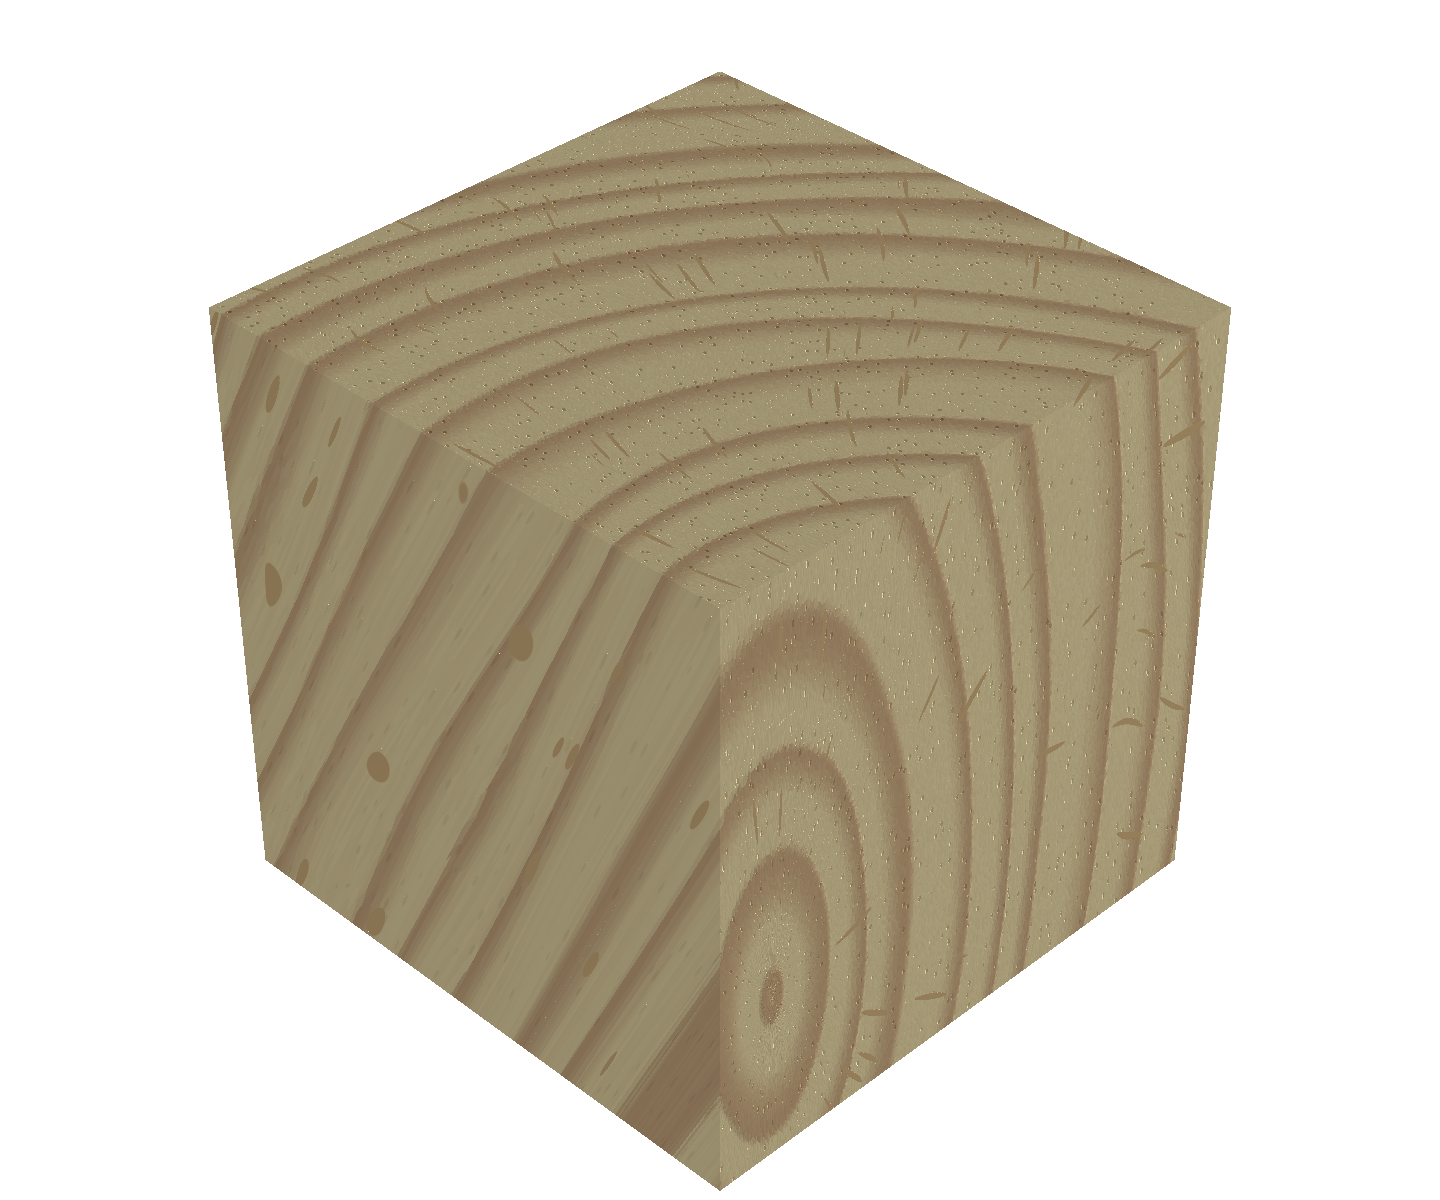
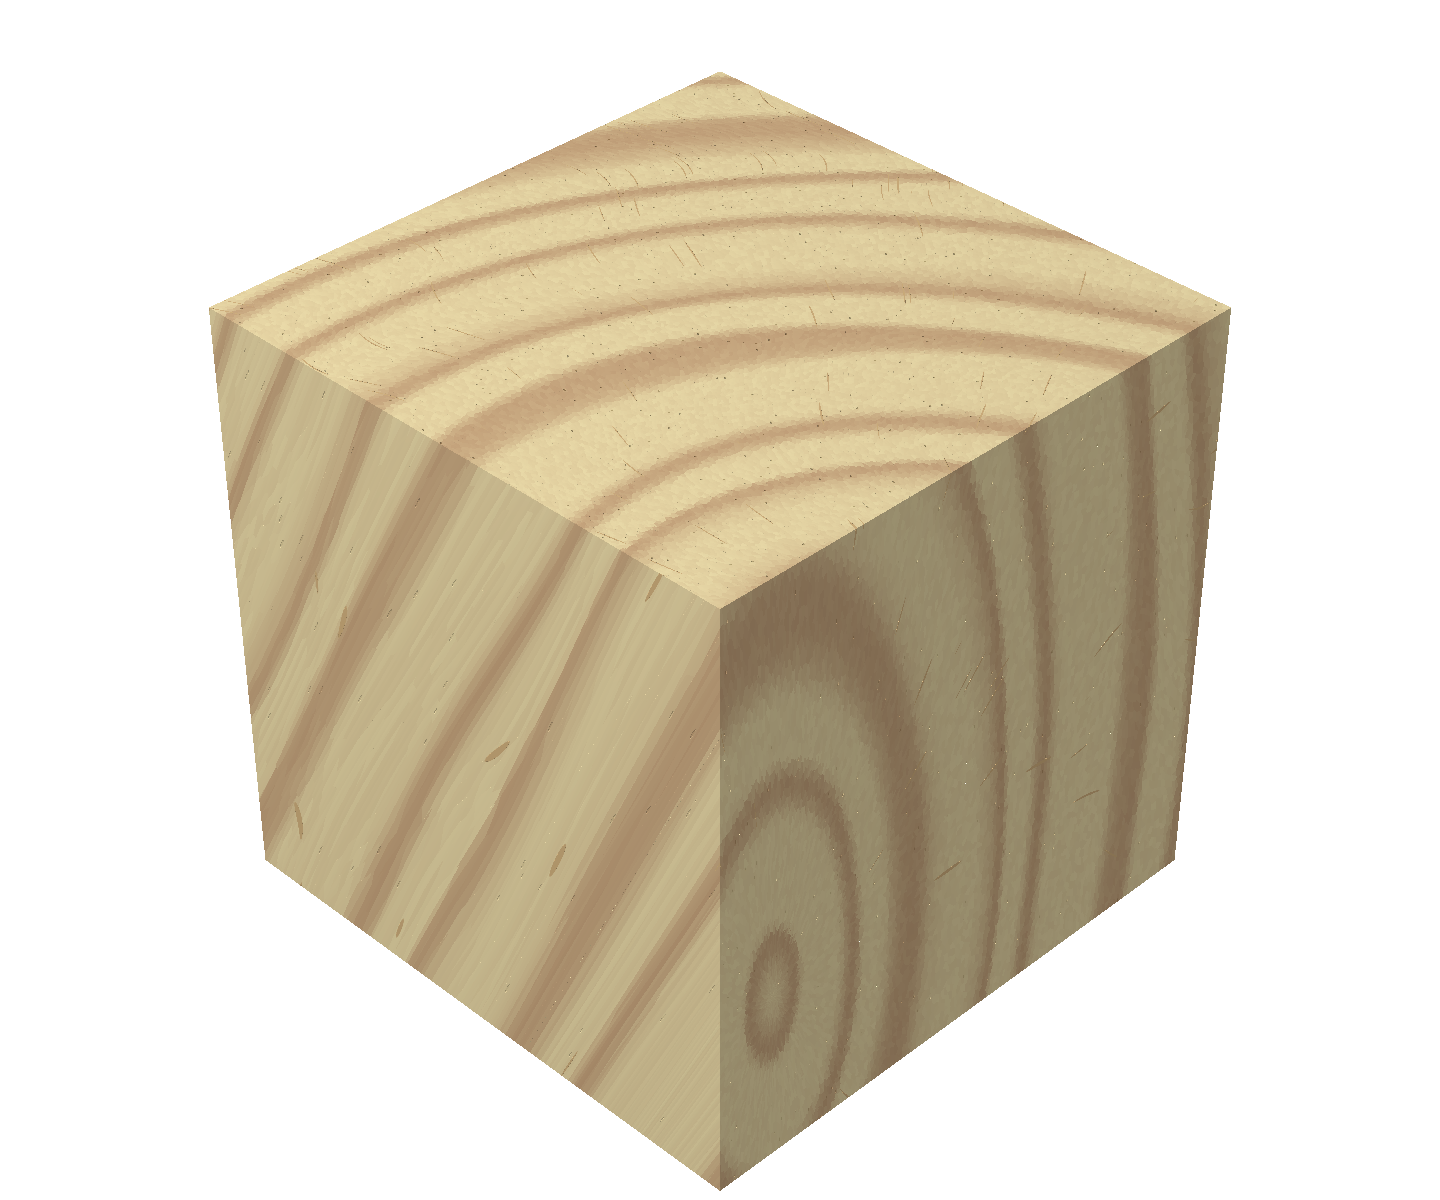
readme

diff --git a/render_cuboid.py b/render_cuboid.py
@@ -127,8 +127,8 @@ def main():
         y = light_distance*0.5
         z = light_distance * math.sin(ang)
         light_pos = [x, y, z]
-        light_pos_loc = glGetUniformLocation(shader_procedural_wood, "lightPos")
-        glUniform3f(light_pos_loc, light_pos[0], light_pos[1], light_pos[2])
+        #light_pos_loc = glGetUniformLocation(shader_procedural_wood, "lightPos")
+        #glUniform3f(light_pos_loc, light_pos[0], light_pos[1], light_pos[2])
 
         # variables
         # Define all variables
@@ -144,36 +144,36 @@ def main():
         ring_col_mix_variables = np.array([0.4, 0.9])
         earlywood_col = np.array([0.75, 0.70, 0.54])
         latewood_col = np.array([0.65, 0.55, 0.42])
-        #average_ring_distance = np.random.normal(loc=0.125, scale=0.025, size=1)
-        #a = np.random.normal(loc=0.4, scale=0.1, size=1)
-        #b = np.random.normal(loc=0.9, scale=0.05, size=1)
-        #ring_col_mix_variables = np.array([a, b])
+        average_ring_distance = np.random.normal(loc=0.125, scale=0.025, size=1)
+        a = np.random.normal(loc=0.4, scale=0.1, size=1)
+        b = np.random.normal(loc=0.9, scale=0.05, size=1)
+        ring_col_mix_variables = np.array([a, b])
 
         # Fibers
         fiber_cell_dim = 0.005
         wood_fiber_color_noise_weight = 0.2
-        #fiber_cell_dim = max(np.random.normal(loc=0.0075, scale=0.0025, size=1), 0.001)
-        #wood_fiber_color_noise_weight = max(np.random.normal(loc=0.3, scale=0.2, size=1),0.0)
+        fiber_cell_dim = max(np.random.normal(loc=0.0075, scale=0.0025, size=1), 0.001)
+        wood_fiber_color_noise_weight = max(np.random.normal(loc=0.3, scale=0.2, size=1),0.0)
 
         # Pores
         pore_radius = 0.15
         pore_equal_occurance_ratio = 0.8
         pore_ring_occurance_ratio = 0.2
         pore_cell_dims = np.array([0.015, 0.015, 0.2])
-        #pore_radius = max(min(np.random.normal(loc=0.20, scale=0.15, size=1),0.5),0.0)
-        #pore_equal_occurance_ratio = np.random.rand(1)
-        #pore_ring_occurance_ratio = np.random.rand(1)
-        #pore_cell_dims = np.random.normal(loc=0.015, scale=0.005, size=2) * np.array([1.0,10.0]) + np.array([0.0,0.1])
-        #pore_cell_dims = np.array([pore_cell_dims[0],pore_cell_dims[0],pore_cell_dims[1]])
+        pore_radius = max(min(np.random.normal(loc=0.20, scale=0.15, size=1),0.5),0.0)
+        pore_equal_occurance_ratio = np.random.rand(1)
+        pore_ring_occurance_ratio = np.random.rand(1)
+        pore_cell_dims = np.random.normal(loc=0.015, scale=0.005, size=2) * np.array([1.0,10.0]) + np.array([0.0,0.1])
+        pore_cell_dims = np.array([pore_cell_dims[0],pore_cell_dims[0],pore_cell_dims[1]])
 
         # Rays
         ray_radius = 0.2
         ray_occurance_ratio = 0.5
         ray_cell_dims = np.array([0.2, 0.015, 0.4])
         ray_color = np.array([0.66, 0.56, 0.40])
-        #ray_radius = max(min(np.random.normal(loc=0.20, scale=0.05, size=1),0.5),0.0)
-        #ray_occurance_ratio = np.random.rand(1)
-        #ray_cell_dims = np.random.normal(loc=0.25, scale=0.05, size=3) * np.array([1.0,0.05,2.0]) + np.array([0.0,0.0,0.1])
+        ray_radius = max(min(np.random.normal(loc=0.20, scale=0.05, size=1),0.5),0.0)
+        ray_occurance_ratio = np.random.rand(1)
+        ray_cell_dims = np.random.normal(loc=0.25, scale=0.05, size=3) * np.array([1.0,0.05,2.0]) + np.array([0.0,0.0,0.1])
 
         # Upload all uniforms
         glUniform3f(glGetUniformLocation(shader_procedural_wood, "pith_org"), pith_org[0], pith_org[1], pith_org[2])

diff --git a/README.md b/README.md
@@ -87,7 +87,6 @@ glwf/glsl implementation of procedural wood texture
 ## Parameter overview
 
 <p float="center">
-  <img src="/output_random_pith.gif" width="300" />
   <img src="/output_random_rings.gif" width="300" />
   <img src="/output_random_fibers.gif" width="300" />
   <img src="/output_random_pores.gif" width="300" />
@@ -95,7 +94,7 @@ glwf/glsl implementation of procedural wood texture
   <img src="/output_random_all.gif" width="300" />
 </p>
 
-1: Random pith origin and direction. 2: Random annual ring distances and transitions (constant colors). 3: Random fiber size and mix. 4: Random pore size and occurance rate. 5: Random ray size and occurance rate (constant color). 6: Random all above.
+1: Random annual ring distances and transitions (constant colors). 2: Random fiber size and mix. 3: Random pore size and occurance rate. 4: Random ray size and occurance rate (constant color). 5: Random all above.
 
 ## To do:s
 
